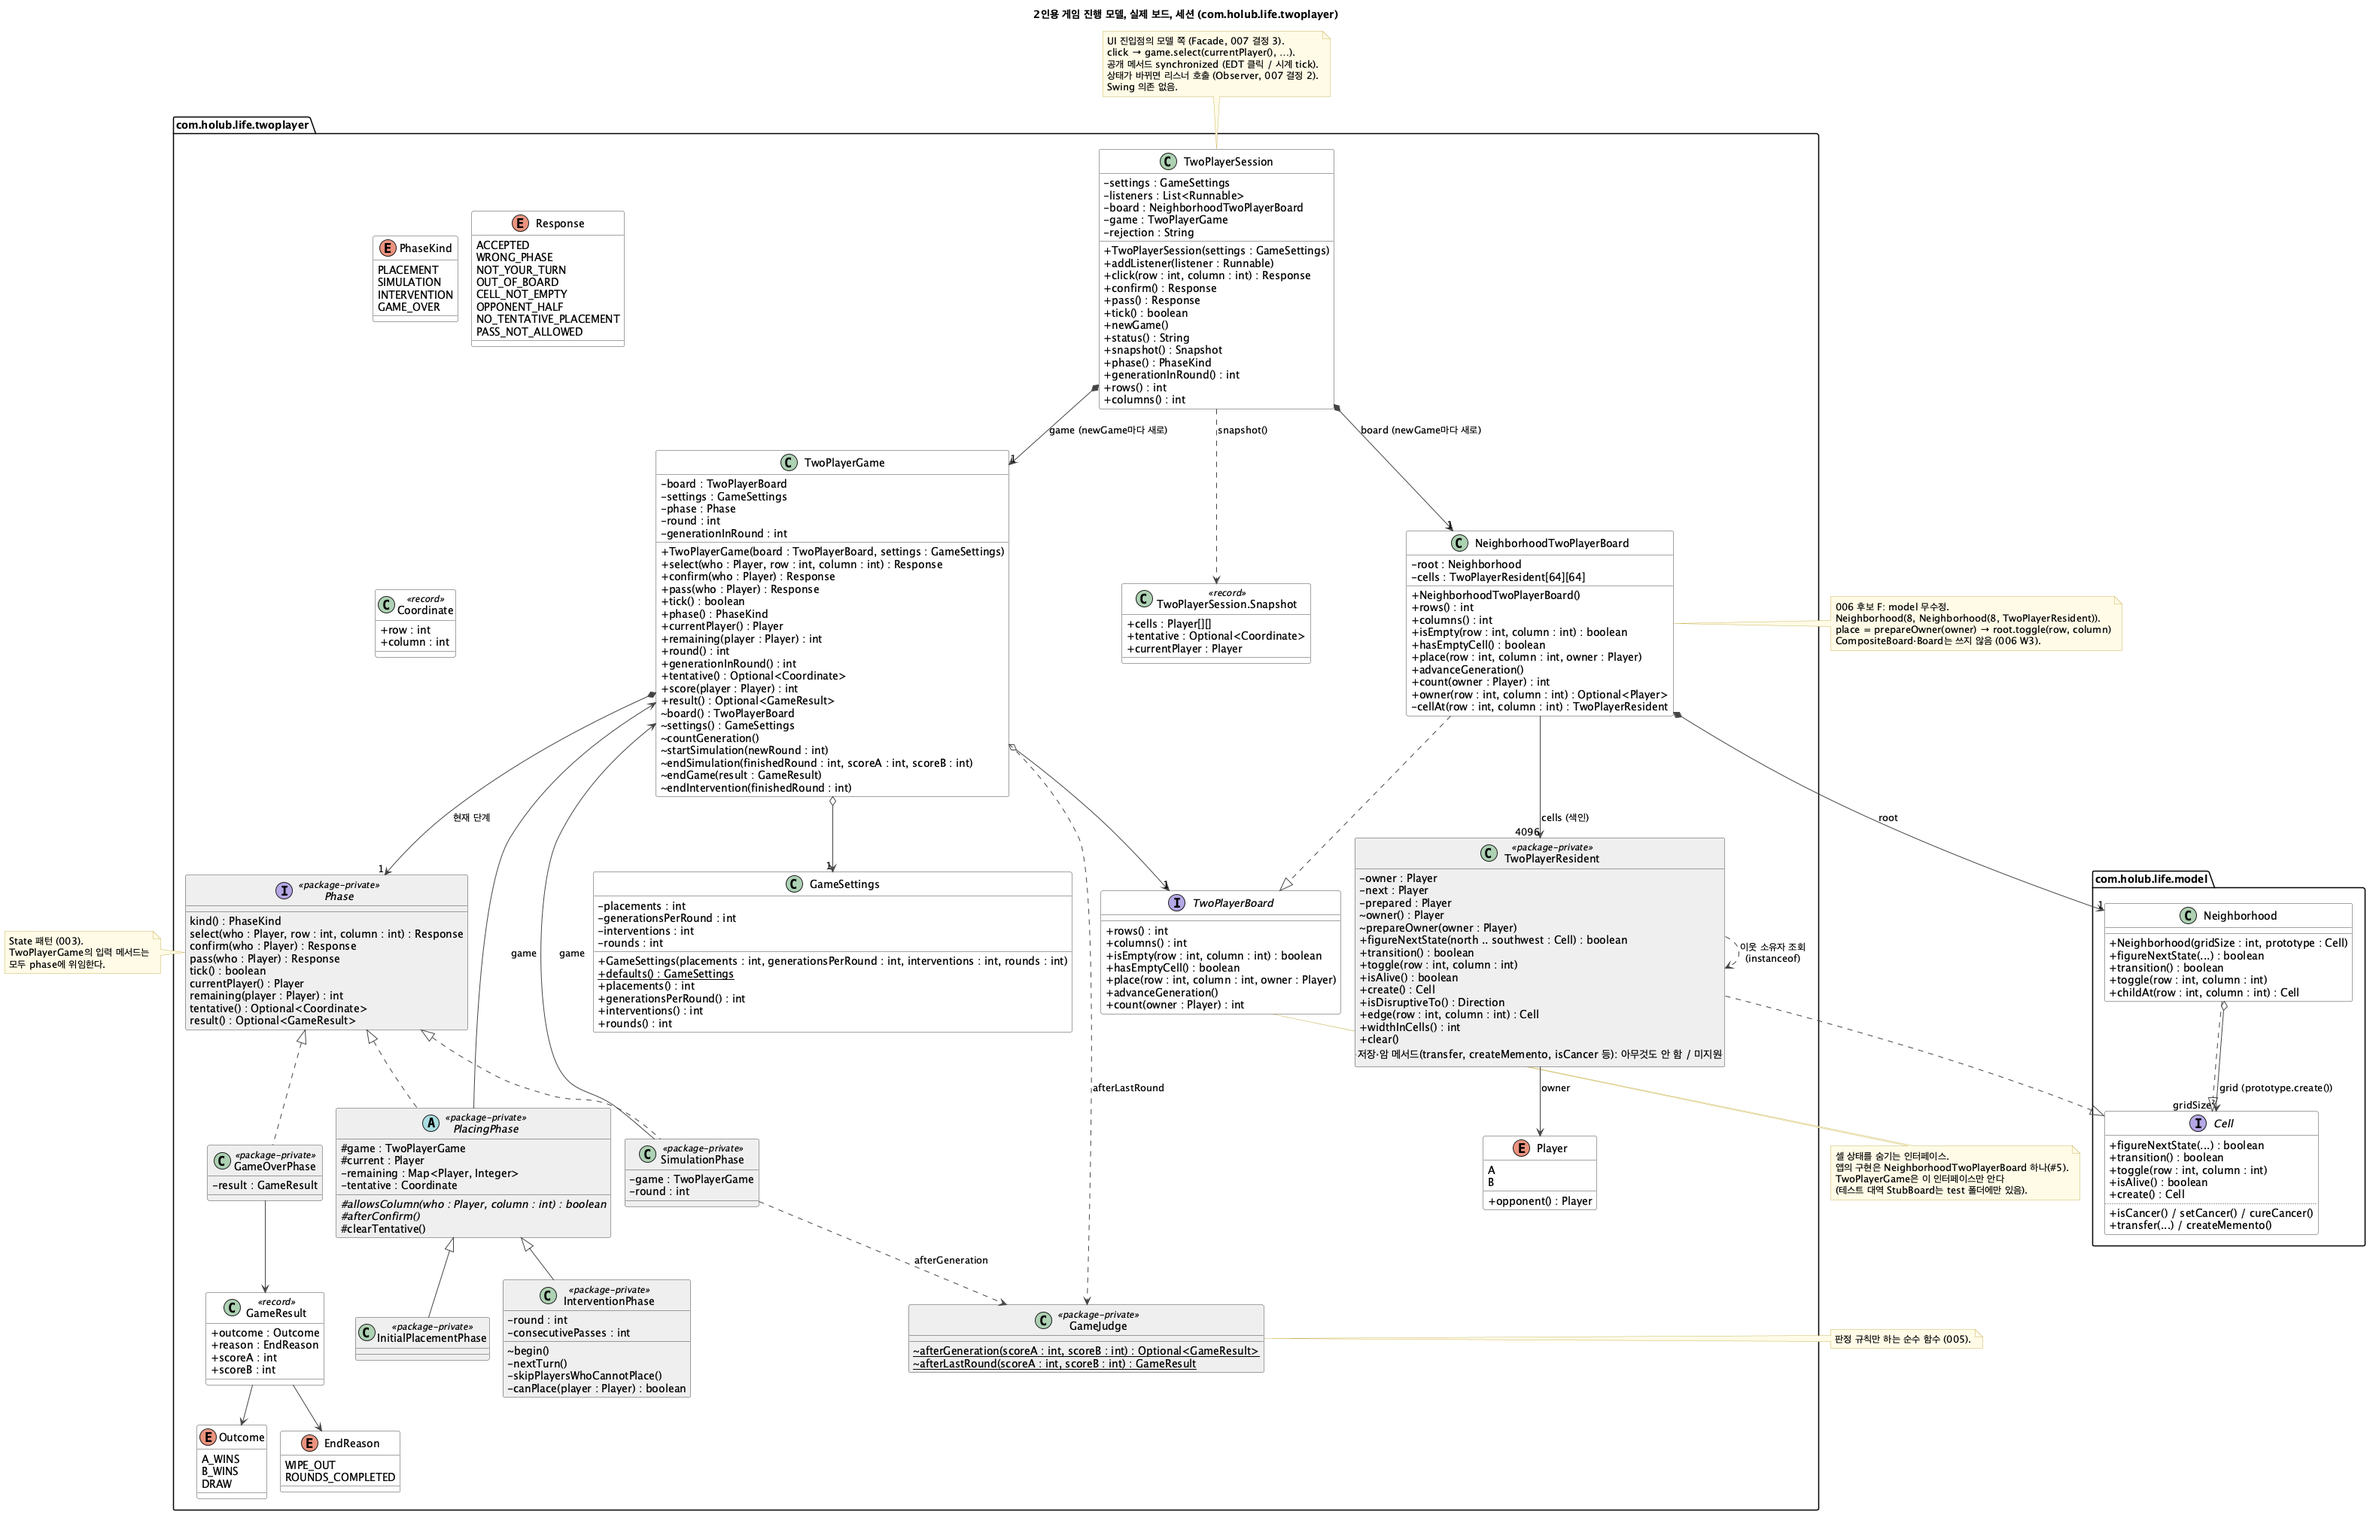
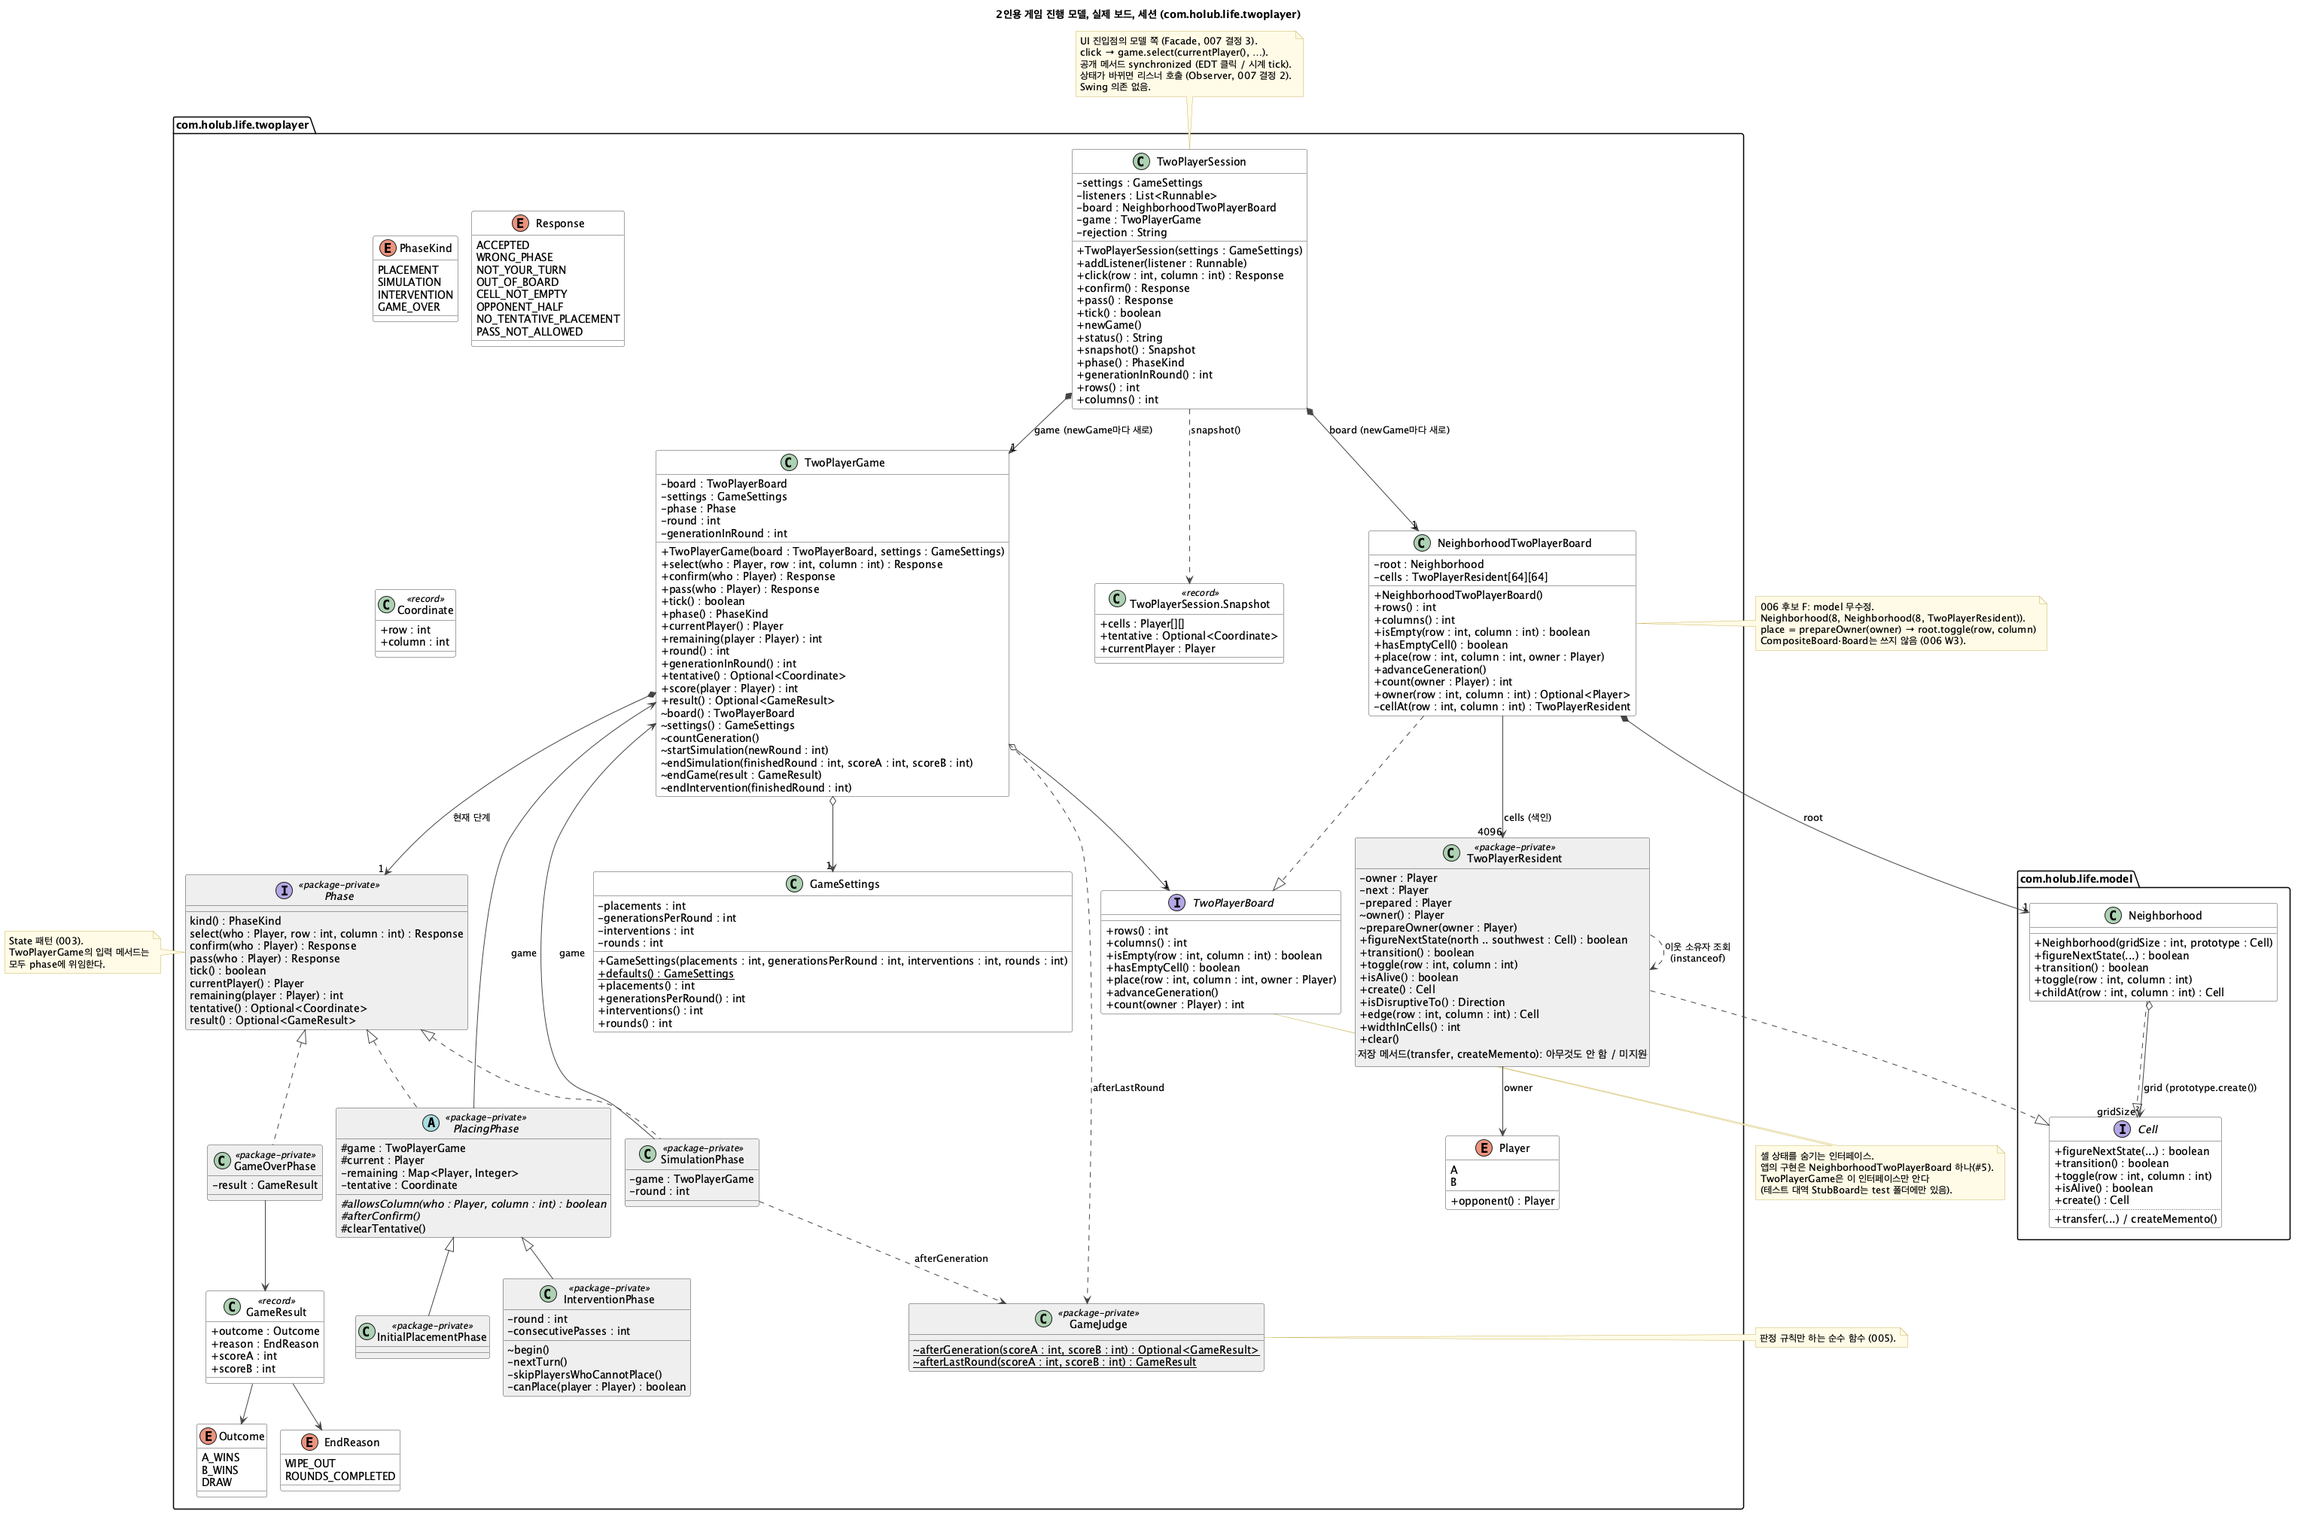
docs: 암세포 셀 계약과 검증 결과 기록 (#70)

diff --git a/docs/GTY.md b/docs/GTY.md
@@ -12,6 +12,7 @@
 | 클래식 보드 Facade | [#49](https://github.com/DesignPattern8/DPTermProject/issues/49) | [#50](https://github.com/DesignPattern8/DPTermProject/pull/50) | main 병합, 당시 전체 68개 테스트 통과 |
 | 클래식 생사 판정 함수 추출 | [#52](https://github.com/DesignPattern8/DPTermProject/issues/52) | [#54](https://github.com/DesignPattern8/DPTermProject/pull/54) | main 병합, 당시 전체 87개 테스트 통과 |
 | 암세포 스냅샷 보존·설계 기록 통합 | [#73](https://github.com/DesignPattern8/DPTermProject/issues/73) | [#83](https://github.com/DesignPattern8/DPTermProject/pull/83) | refactor/base 병합·이슈 종료, JDK 26 CI 통과 |
+| 암세포 셀 계약 분리 | [#70](https://github.com/DesignPattern8/DPTermProject/issues/70) | 로컬 검증 | 전체 테스트 359개 통과 |
 | legacy Load 경계 활성화 | [#81](https://github.com/DesignPattern8/DPTermProject/issues/81) | [#89](https://github.com/DesignPattern8/DPTermProject/pull/89) | refactor/base 병합, 로컬·CI 통과 |
 | 보드별 전이 상태 분리 | [#74](https://github.com/DesignPattern8/DPTermProject/issues/74) | PR 준비 | 구현·검증 완료 |
 
@@ -498,3 +499,42 @@ java -ea -Djava.awt.headless=true \
 - 예외는 그대로 전파한다. finally는 조정 상태를 복구하며 이미 반영된 셀을 rollback하지 않는다.
 - 기존 private static 필드를 반사로 읽던 수동 `StaticLockCheck`는 public 동작 관찰로 갱신했다. 과거 재현 결과는 기존 문서·커밋 이력에 보존한다.
 - `Refs #74`, PR base는 `refactor/base`. 공동 이슈이므로 A의 모델 처리와 B의 실행 정책 완료 범위를 구분한다.
+
+## 009. 암세포 셀 계약 분리 (#70)
+
+- 태영 / 2026-11-23 / [#70](https://github.com/DesignPattern8/DPTermProject/issues/70)
+- `refactor/70-cancer-cell`의 기준은 `origin/refactor/base`의 `ef8ee24`다.
+
+### 문제와 설계 선택
+
+`Cell`에 암세포 조회·설정·치료가 있어 `Neighborhood`, 보드 바깥의 `Cell.DUMMY`, 2인용의 `TwoPlayerResident`까지 `false`를 반환하거나 빈 메서드를 구현했다.
+
+| 후보 | 적용 범위와 비용 | 결정 |
+| --- | --- | --- |
+| A. 현행 `Cell` 유지 | 변경 파일 0개. 모든 `Cell` 구현이 암세포 메서드 세 개를 계속 제공한다. | 기각 |
+| B. `CancerCell extends Cell` | 하위 인터페이스 1개. 암세포를 지원하는 `Resident`가 구현하고 `Cell`로 탐색하는 곳에서 지원 여부를 확인한다. | 채택 |
+| C. `Cell.state()`로 일반화 | 공통 상태 계약과 모드별 표현을 설계하고 `Cell` 구현, 이웃 조회, 렌더러, 스냅샷 호출을 함께 이전해야 한다. | 이번 분리 범위가 커져 보류 |
+
+### 코드 변경과 협업 범위
+
+- [CancerCell](../Codes/GameOfLife/src/com/holub/life/model/CancerCell.java)에 `isCancer()`, `setCancer()`, `cureCancer()`를 옮겼다. `Resident`가 구현하고 복합 셀·DUMMY·2인용 셀의 빈 구현을 삭제했다. 일반 `Cell` 변수에서는 세 메서드를 직접 호출할 수 없다.
+- `Resident`는 살아 있는 이웃 중 암세포 기능을 지원하는 셀만 암세포로 셈한다. `CompositeBoard`는 기존 순회·복원 순서를 지키고 암 상태 조회와 적용에 `CancerCell`을 사용한다. `BoardRenderer`는 기존 `Resident` 분기에서 동일한 색을 선택한다.
+- `Cell.Memento`의 암 좌표 조회·기록은 `NeighborhoodState`의 실제 데이터이며 기존 `.life` 경로가 사용한다. 파일을 읽고 쓰는 계약과 `Point` 시그니처는 이 브랜치의 기준을 따른다. 모델 좌표 변경은 [#71](https://github.com/DesignPattern8/DPTermProject/issues/71)에서 진행한다.
+- [#96](https://github.com/DesignPattern8/DPTermProject/pull/96)의 `b993a2f`와 대조했다. 같은 파일에서 #96은 `Resident.toggle()`과 `Neighborhood.treatAt()`을 수정한다. #70은 `Resident`의 타입 선언·이웃 조회와 `Neighborhood`의 빈 메서드를 변경했다. 클릭 제한·치료 범위와 횟수·게임 종료는 #96의 규칙 변경 범위다.
+
+### 실제 비용
+
+- 공통 `Cell` 메서드 14→11개. 인터페이스 1개 추가, 제품 Java 7개 파일에서 23줄 추가·49줄 삭제로 순감 26줄. 외부 의존성 추가 0개.
+- 살아 있는 이웃의 암 조회 전에 타입 확인 한 번을 추가했다. 새 위임 단계와 객체 생성은 0이다. 실행 시간은 측정하지 않았다.
+- [공개 계약](../Codes/GameOfLife/src/com/holub/life/model/docs/interfaces.md#암세포-셀-계약-70)과 기존 2인용 클래스 다이어그램을 코드에 맞췄다.
+
+### 검증 결과
+
+| 검증 | 결과 |
+| --- | --- |
+| 구현 전, 새 보드 가장자리 특성 테스트 포함 | 전체 358개 통과 |
+| 구현 후, 같은 보드 가장자리 테스트와 2인용 타입 계약 포함 | 전체 359개 통과, 실패·오류·건너뜀 각 0개 |
+| 잘못된 호출 | `javac`에서 일반 `Cell` 변수의 암세포 메서드 세 호출을 모두 컴파일 오류로 확인 |
+| #96 충돌 확인 | `129f6b3f..b993a2f` 전체 패치의 `git apply --check` 통과. 두 브랜치의 통합 테스트는 별도다. |
+
+JDK 26에서 `Codes/GameOfLife`의 `./gradlew test --no-daemon --rerun-tasks`를 실행했다. 일반·암세포·2인용 세대 규칙, 암세포 스냅샷과 `.life` 복원, 암세포 화면 색을 기존 테스트로 검증했다. [모델 테스트 기준](../Codes/GameOfLife/src/com/holub/life/model/docs/test-cases.md#암세포-셀-계약-분리-70)

diff --git a/Codes/GameOfLife/src/com/holub/life/model/docs/test-cases.md b/Codes/GameOfLife/src/com/holub/life/model/docs/test-cases.md
@@ -52,7 +52,15 @@ Block·Blinker·Glider, 보드 모서리·하위 블록 경계, 고정 시드의
 | CAN-M11 | 예외 | 보드 밖 좌표 치료는 아무것도 바꾸지 않는다 | (0,0) 암세포, (-5,-5)와 (100,100) 치료 | 예외 없이 암세포 1개 유지 | `CancerModelTest#treatmentOutsideBoardChangesNothing` |
 | CAN-M12 | 경계 | 암세포 수는 하위 블록 경계를 넘어 모두 센다 | 하위 블록 경계 (7,7)·(7,8)·(8,7)·(8,8)과 (63,63)의 암세포 | `cancerCount()` = 5 | `CancerModelTest#cancerCountSpansSubBlocks` |
 | CAN-M13 | 정상 | Clear는 암세포 상태도 지운다 | 암세포 2칸, `clear()` | 암세포 0개, 살아 있는 칸 0개 | `CancerModelTest#clearRemovesCancer` |
-| CAN-M14 | 경계 | 복합 셀과 DUMMY는 암세포가 되지 않는다 | `Neighborhood`와 `Cell.DUMMY`에 `setCancer()` | 둘 다 `isCancer()` = false | `CancerModelTest#compositeAndDummyCellsAreNeverCancer` |
+
+## 암세포 셀 계약 분리 (#70)
+
+| ID | 분류 | 목적 | 입력/초기 상태 | 기대 결과 | 테스트 메서드 |
+| --- | --- | --- | --- | --- | --- |
+| CAN-M15 | 경계 | 보드 가장자리의 암세포 출생 유지 | `(1,5)`, `(1,6)`, `(1,7)`에 암세포를 복원하고 한 세대 진행 | 바로 위 `(0,6)`에 암세포가 태어난다. | `CancerModelTest#cancerIsBornAtBoardEdge` |
+| CAN-M14 | 예외·계약 | 암세포 미지원 타입에 암세포 연산이 노출되지 않는다 | `Neighborhood`, `Cell.DUMMY`, `TwoPlayerResident`의 타입 확인 | 셋 모두 `CancerCell` 계약을 구현하지 않는다. | `CancerModelTest#compositeAndDummyCellsDoNotSupportCancer`, `TwoPlayerRuleTest#twoPlayerCellsDoNotSupportCancer` |
+
+정상 케이스는 CAN-M01~13의 기존 계산·발생·치료를 사용한다. SNAP-C, CAN-P, CAN-A, CAN-C 및 화면의 암세포 색과 클래식·2인용 규칙도 회귀 검증한다.
 
 ## 암세포 스냅샷 (#73)
 

diff --git a/Codes/GameOfLife/src/com/holub/life/model/docs/interfaces.md b/Codes/GameOfLife/src/com/holub/life/model/docs/interfaces.md
@@ -21,6 +21,23 @@ boolean Neighborhood.beginRedraw(boolean drawAll) throws InterruptedException
 
 beginRedraw는 기존 마지막 갱신 플래그를 소비하고 해당 보드의 ConditionVariable 읽기 조건을 확인한다. `beginRedraw()` 이후 전체 그리기 구간을 잠그지는 않는다. 같은 보드의 계산·수정·캡처는 호출자가 기존처럼 직렬화한다. UI는 childAt으로 받은 셀을 읽기·좌표 변환에만 사용한다.
 
+## 암세포 셀 계약 (#70)
+
+- 제공 A 모델 / 사용 스냅샷 복원·수집, 암세포 모드의 `Resident`, D 화면.
+- 2026-11-23, [#70](https://github.com/DesignPattern8/DPTermProject/issues/70) · [설계·검증 기록](../../../../../../../../docs/GTY.md#009-암세포-셀-계약-분리-70).
+
+```java
+public interface CancerCell extends Cell {
+  boolean isCancer();
+  void setCancer();
+  void cureCancer();
+}
+```
+
+`Resident`가 구현한다. `isCancer()`는 암 표시를 조회하므로 살아 있는 암세포만 세는 호출부는 `isAlive()`도 확인한다. `setCancer()`는 살아 있는 암세포로 바꾸고 `cureCancer()`는 암세포를 죽인다. 셀 변경은 기존 보드 동기화와 활성 블록 규칙을 따른다.
+
+`Cell`로 조회한 값은 `instanceof CancerCell`로 지원 여부를 확인한 뒤 호출한다. `Neighborhood`, `Cell.DUMMY`, `TwoPlayerResident`는 이 계약을 구현하지 않는다. `Cell.Memento`의 좌표 기반 암 기록·조회는 파일 복원 경로에서 사용한다.
+
 ## 클래식 보드 계약
 
 - 변경: 2026-11-10, #47 계약 문서 → #49 모델 API 구현. [설계 결정](../../../../../../../../docs/GTY.md#002-클래식-보드-facade)

diff --git a/Codes/GameOfLife/src/com/holub/life/ui/docs/interfaces.md b/Codes/GameOfLife/src/com/holub/life/ui/docs/interfaces.md
@@ -65,7 +65,7 @@ public final class GameResultAnnouncer implements GameListener {
 
 - `GameResultAnnouncer.boardChanged`: `GAME_OVER`일 때만 알림을 받은 스레드에서 `controller.gameResultMessage()`를 읽고, `onUiThread`에 `dialogs.showMessage(message)`를 넘긴다. 다른 알림은 무시한다. `LifeFrame`은 `SwingUtilities::invokeLater`를 넘긴다.
 - `SwingUserDialogs.showMessage`: `JOptionPane.showMessageDialog(messageParent, message, "Game of Life", INFORMATION_MESSAGE)`. 이벤트 스레드에서 부른다. `showError`는 계속 부모 없이(`null`) 띄운다(원본).
-- 사용하는 다른 도메인 API(#60): B `GameController.treat(int, int)`, `GameController.gameResultMessage()`, `GameListener.Change.GAME_OVER`, A `Cell.isCancer()`.
+- 사용하는 다른 도메인 API(#60): B `GameController.treat(int, int)`, `GameController.gameResultMessage()`, `GameListener.Change.GAME_OVER`, A `Resident.isCancer()` (`CancerCell` 계약).
 
 # 게임 모드 전환 (`GameMode`, `ModeSwitch`, `ClassicMode`)
 

diff --git a/Codes/GameOfLife/src/com/holub/life/model/docs/README.md b/Codes/GameOfLife/src/com/holub/life/model/docs/README.md
@@ -8,6 +8,7 @@
 - [#73 암세포 스냅샷 보존·문서 통합](../../../../../../../../docs/GTY.md#004-암세포-스냅샷-보존-73)
 - [#81 legacy Load 경계 활성화](../../../../../../../../docs/GTY.md#006-legacy-load-경계-활성화-81)
 - [#74 보드별 전이 읽기 허가](../../../../../../../../docs/GTY.md#007-보드별-전이-읽기-허가-분리-74)
+- [#70 암세포 셀 계약 분리](../../../../../../../../docs/GTY.md#009-암세포-셀-계약-분리-70)
 - [계약](interfaces.md)
 - [테스트](test-cases.md)
 
